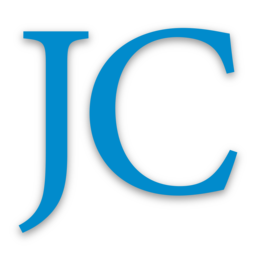
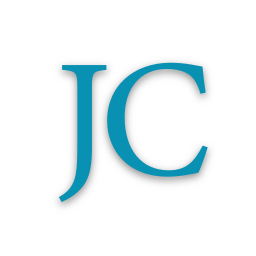
Improve Color Consistency
The consistency of colors across the website was improved. Links now match the colors of buttons. The favicon color was also updated to match the main blue color. Also, the name/website-title area in both the page footer and on the homepage was updated to flex-row the image on desktop.

diff --git a/components/PageFooter/index.tsx b/components/PageFooter/index.tsx
@@ -6,18 +6,36 @@ const PageFooter = (): JSX.Element => {
   let currentYear: number=new Date().getFullYear();
 
   return (
-      <footer className="bg-[#252162] text-white text-xl w-full shadow-[0_-5px_5px_0px_rgba(0,0,0,0.1)]">
+      <footer className="bg-cyan-900 text-white text-xl w-full shadow-[0_-5px_5px_0px_rgba(0,0,0,0.1)]">
         <div className="pt-16 pb-12 px-9 flex flex-col gap-y-10 text-center items-center justify-center">
-          <LinkInternal className="!text-sky-600 focus:!text-sky-800 hover:!text-sky-700 no-underline" href="" title="James Sells NSB">
-            <h1 className="font-light text-5xl">James Sells NSB</h1>
-          </LinkInternal>
-          <div className="flex flex-row flex-wrap gap-x-8 gap-y-2 text-center items-center justify-center">
-              <p>Email: <LinkExternal className="!text-white focus:!text-slate-400 hover:!text-slate-300 no-underline max-sm:break-all" href="mailto:contact@jamessellsnsb.com" title="Contact James Cumiskey via Email at Contact@JamesSellsNSB.com">Contact@JamesSellsNSB.com</LinkExternal></p>
-              <p>Phone: <LinkExternal className="!text-white focus:!text-slate-400 hover:!text-slate-300 no-underline max-sm:break-all" href="tel:3864449116" title="Contact James Cumiskey via Phone at 386-444-9116">386-444-9116</LinkExternal></p>
+          <div className="flex flex-row flex-wrap gap-10 text-center items-center justify-center">
+            <Image
+              src={process.env.NEXT_PUBLIC_SITE_URL + '/JamesCumiskey.png' || './JamesCumiskey.png'}
+              width={300}
+              height={300}
+              alt="James Cumiskey"
+              className="shadow-lg bg-white rounded-lg text-center flex items-center justify-center align-middle break-all overflow-auto"
+            />
+            <div className="flex flex-col text-left max-sm:text-center items-left justify-left">
+              <LinkInternal className="no-underline" href="" title="James Sells NSB">
+                <p className="font-light text-6xl">James Sells NSB</p>
+              </LinkInternal>
+              <hr className="mt-2 mb-2" />
+              <p className="mt-6 mb-2 text-white font-light text-black text-4xl"><strong>James Cumiskey</strong><br /><em className="text-3xl">New Smyrna Beach</em></p>
+
+              <p className="mt-3 mb-2 font-normal text-3xl">
+                Realtor ®
+              </p>
+            </div>
+          </div>
+
+          <div className="mt-8 flex flex-row flex-wrap gap-x-8 gap-y-2 text-center items-center justify-center">
+              <p>Email: <LinkExternal className="text-white no-underline max-sm:break-all" href="mailto:contact@jamessellsnsb.com" title="Contact James Cumiskey via Email at Contact@JamesSellsNSB.com">Contact@JamesSellsNSB.com</LinkExternal></p>
+              <p>Phone: <LinkExternal className="text-white no-underline max-sm:break-all" href="tel:3864449116" title="Contact James Cumiskey via Phone at 386-444-9116">386-444-9116</LinkExternal></p>
           </div>
           <div className="flex flex-row flex-wrap gap-x-8 gap-y-2 text-center items-center justify-center">
-              <p> © {currentYear} <LinkInternal className="!text-white focus:!text-slate-400 hover:!text-slate-300 no-underline" href="" title="James Cumiskey">James Cumiskey</LinkInternal></p>
-              <LinkInternal className="!text-white focus:!text-slate-400 hover:!text-slate-300" href="privacy" title="Privacy Policy">Privacy Policy</LinkInternal>
+              <p> © {currentYear} <LinkInternal className="text-white no-underline" href="" title="James Cumiskey">James Cumiskey</LinkInternal></p>
+              <LinkInternal className="text-white" href="privacy" title="Privacy Policy">Privacy Policy</LinkInternal>
           </div>
         </div>
       </footer>

diff --git a/pages/index.tsx b/pages/index.tsx
@@ -46,23 +46,28 @@ const homePage: NextPage<listingsProps> = ({ listings }) => {
     <div className="min-h-screen flex flex-col items-center justify-center">
       <SiteHead title="James Sells NSB" description="James Sells NSB is the official website for Realtor James Cumiskey of New Smyrna Beach." url="" />
 
-      <main className="py-20 px-9 bg-slate-100 w-full flex flex-1 flex-col text-center items-center justify-center">
+      <main className="py-10 px-9 bg-slate-100 w-full flex flex-1 flex-col text-center items-center justify-center">
         <div className="max-w-[1100px] w-full flex flex-1 flex-col text-center items-center justify-center">
-          <h1 className="mt-8 mb-10 text-sky-600 font-light text-5xl">James Sells NSB <hr className="mt-2 mb-6" /><em className="text-black">James Cumiskey of New Smyrna Beach</em></h1>
+          <div className="mt-10 mb-10 flex flex-row flex-wrap gap-10 text-center items-center justify-center">
+            <Image
+              src={process.env.NEXT_PUBLIC_SITE_URL + '/JamesCumiskey.png' || './JamesCumiskey.png'}
+              width={300}
+              height={300}
+              alt="James Cumiskey"
+              className="shadow-lg bg-white rounded-lg text-center flex items-center justify-center align-middle break-all overflow-auto"
+            />
+            <div className="flex flex-col text-left max-sm:text-center items-left justify-left">
+              <h1 className="mt-8 mb-2 text-cyan-600 font-light text-6xl">James Sells NSB</h1>
+              <hr className="mt-2 mb-2" />
+              <p className="mt-4 mb-2 font-light text-black text-4xl"><strong>James Cumiskey</strong><br /><em className="text-3xl">New Smyrna Beach</em></p>
 
-          <Image
-            src={process.env.NEXT_PUBLIC_SITE_URL + '/JamesCumiskey.png' || './JamesCumiskey.png'}
-            width={300}
-            height={300}
-            alt="James Cumiskey"
-            className="shadow-lg bg-white rounded-lg text-center flex items-center justify-center align-middle break-all overflow-auto"
-          />
+              <p className="mt-3 mb-2 font-normal text-3xl">
+                Realtor ®
+              </p>
+            </div>
+          </div>
 
-          <p className="mt-10 mb-10 font-normal text-4xl">
-            Realtor ®
-          </p>
-
-          <div id="contact" className="mb-10 text-xl flex flex-row flex-wrap gap-x-8 gap-y-2 text-center items-center justify-center">
+          <div id="contact" className="mt-10 mb-10 text-xl flex flex-row flex-wrap gap-x-8 gap-y-2 text-center items-center justify-center">
             <p>Email: <LinkExternal className="no-underline max-sm:break-all" href="mailto:contact@jamessellsnsb.com" title="Contact James Cumiskey via Email at Contact@JamesSellsNSB.com">Contact@JamesSellsNSB.com</LinkExternal></p>
             <p>Phone: <LinkExternal className="no-underline max-sm:break-all" href="tel:3864449116" title="Contact James Cumiskey via Phone at 386-444-9116">386-444-9116</LinkExternal></p>
           </div>

diff --git a/components/SiteHead/index.tsx b/components/SiteHead/index.tsx
@@ -39,13 +39,13 @@ const SiteHead: FC<ISiteHeadProps> = ({
       <link rel="canonical" href={process.env.NEXT_PUBLIC_SITE_URL || 'https://jamessellsnsb.com'} />
 
       <link rel="icon" href={process.env.NEXT_PUBLIC_SITE_URL + '/favicon.ico' || 'https://jamessellsnsb.com/favicon.ico'} />
-      <link rel="mask-icon" href="/safari-pinned-tab.svg" color="#2d89ef" />
+      <link rel="mask-icon" href="/safari-pinned-tab.svg" color="#0891b2" />
       <link rel="manifest" href={process.env.NEXT_PUBLIC_SITE_URL + '/manifest.webmanifest' || 'https://jamessellsnsb.com/manifest.webmanifest'} />
       <meta name="apple-mobile-web-app-title" content="James Sells NSB" />
       <meta name="application-name" content="James Sells NSB" />
-      <meta name="msapplication-TileColor" content="#018bcc" />
+      <meta name="msapplication-TileColor" content="#0891b2" />
       <meta name="msapplication-TileImage" content={process.env.NEXT_PUBLIC_SITE_URL + '/mstile-144x144.png' || 'https://jamessellsnsb.com/mstile-144x144.png'} />
-      <meta name="theme-color" content="#2d89ef" />
+      <meta name="theme-color" content="#ffffff" />
     </Head>
   )
 }

diff --git a/components/Links/LinkInternal.tsx b/components/Links/LinkInternal.tsx
@@ -17,7 +17,7 @@ const LinkInternal: FC<ILinkInternalProps> = ({
   const linkBase = process.env.NEXT_PUBLIC_SITE_URL || ""
 
   return (
-    <Link href={linkBase + '/' + href || './' + href} title={title} className={"underline text-sky-600 focus:text-slate-500 hover:text-slate-400 hover:no-underline " + className + " transition-all motion-reduce:transition-none motion-reduce:hover:transform-none"}>
+    <Link href={linkBase + '/' + href || './' + href} title={title} className={"underline text-cyan-600 focus:text-cyan-800 hover:text-slate-400 hover:no-underline " + className + " transition-all motion-reduce:transition-none motion-reduce:hover:transform-none"}>
       {children}
     </Link>
   )

diff --git a/components/Links/LinkExternal.tsx b/components/Links/LinkExternal.tsx
@@ -15,7 +15,7 @@ const LinkExternal: FC<ILinkExternalProps> = ({
   className
 }): JSX.Element => {
   return (
-    <Link href={href} title={title} target="_blank" rel="noopener noreferrer" className={"underline text-sky-600 focus:text-slate-500 hover:text-slate-400 hover:no-underline " + className + " transition-all motion-reduce:transition-none motion-reduce:hover:transform-none"}>
+    <Link href={href} title={title} target="_blank" rel="noopener noreferrer" className={"underline text-cyan-600 focus:text-cyan-800 hover:text-slate-400 hover:no-underline " + className + " transition-all motion-reduce:transition-none motion-reduce:hover:transform-none"}>
       {children}
     </Link>
   )

diff --git a/components/Buttons/ButtonExternal.tsx b/components/Buttons/ButtonExternal.tsx
@@ -16,7 +16,7 @@ const ButtonExternal: FC<IButtonExternalProps> = ({
 }): JSX.Element => {
   return (
     <Link href={href} title={title} target="_blank" rel="noopener noreferrer" className={"text-center text-white group " + className}>
-      <div className="rounded bg-[#252162] group-focus:bg-sky-800 group-hover:bg-cyan-600 py-8 px-10 text-2xl transition-all motion-reduce:transition-none motion-reduce:hover:transform-none">{children}</div>
+      <div className="rounded bg-cyan-900 group-focus:bg-cyan-800 group-hover:bg-cyan-700 py-8 px-10 text-2xl transition-all motion-reduce:transition-none motion-reduce:hover:transform-none">{children}</div>
     </Link>
   )
 }

diff --git a/components/Buttons/ButtonInternal.tsx b/components/Buttons/ButtonInternal.tsx
@@ -18,7 +18,7 @@ const ButtonInternal: FC<IButtonInternalProps> = ({
 
   return (
     <Link href={linkBase + '/' + href || './' + href} title={title} className={"text-center text-white group " + className}>
-      <div className="rounded bg-[#252162] group-focus:bg-sky-800 group-hover:bg-cyan-600 py-8 px-10 text-2xl transition-all motion-reduce:transition-none motion-reduce:hover:transform-none">{children}</div>
+      <div className="rounded bg-cyan-900 group-focus:bg-cyan-800 group-hover:bg-cyan-700 py-8 px-10 text-2xl transition-all motion-reduce:transition-none motion-reduce:hover:transform-none">{children}</div>
     </Link>
   )
 }
